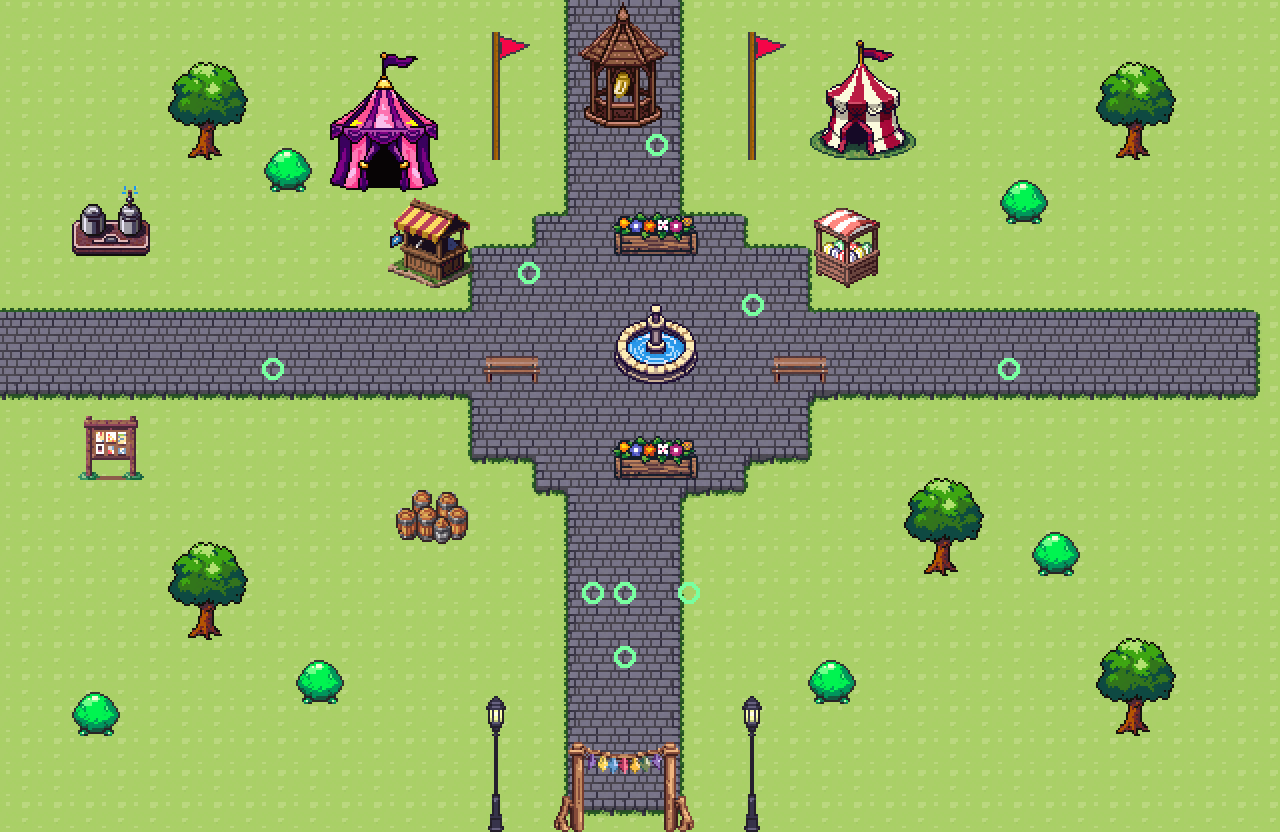
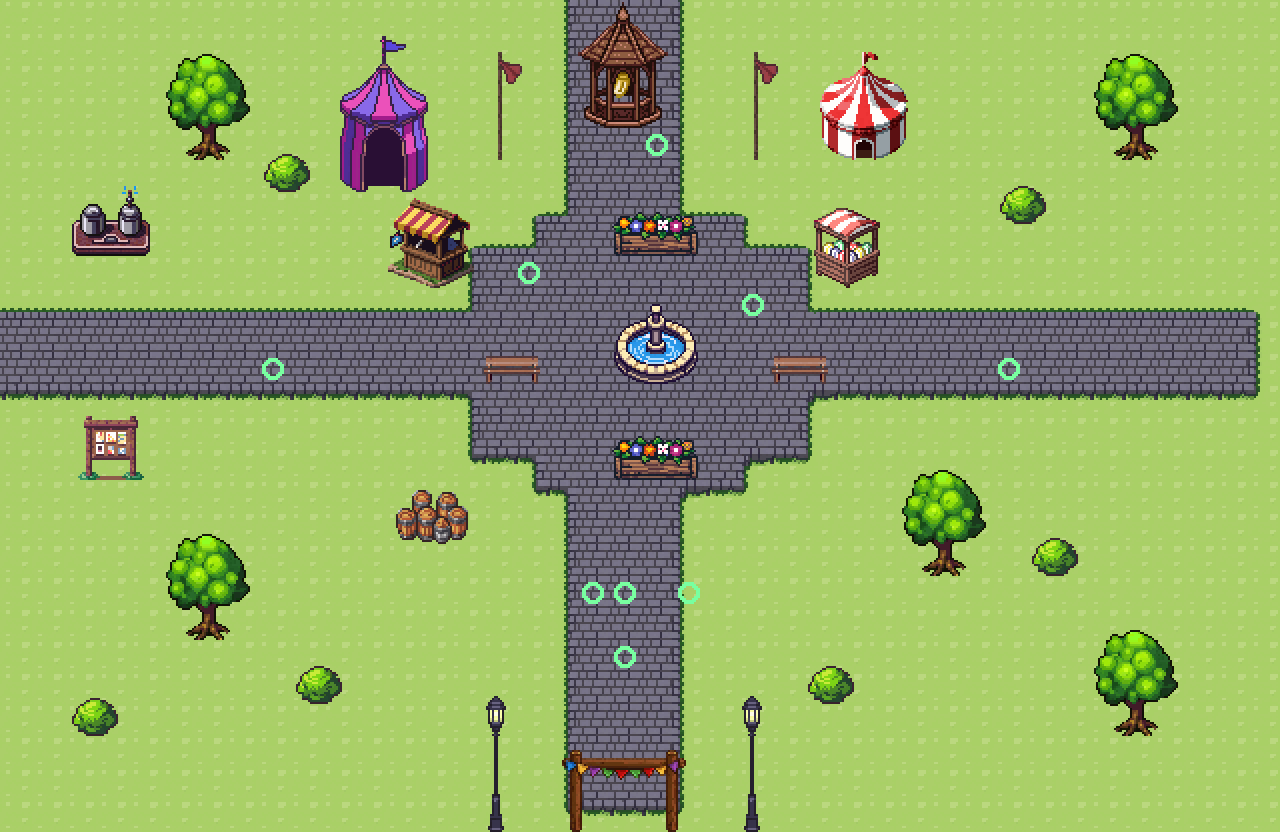
feat(space): breeze animations across the Millennial Fair
The channel plaza was static outside its centre (bell + fountain). Bring
the fairground to life under one coherent breeze: light fabric ripples
faster, heavy foliage sways slower.

Newly animated (regenerated as flat 16-bit PixelLab frames, frame 0
replacing the old static art):
- the two red pennant flags flanking the bell wave
- the entrance arch's colourful bunting garland flutters
- both carnival tent pennants (striped + Bekkler purple) flutter
- the trees' canopies and the bushes sway

Widened SHEET_COLS 20→30 so the arch's 5-tile × 6-frame strip fits (the
off-sheet guard enforces it); every animated frame cell verified
non-empty (no blink) and union-bbox keeps each base perfectly still.
Dropped the six now-unused static source PNGs. make ci 9/9.

diff --git a/virtual.space/tools/author_fair.py b/virtual.space/tools/author_fair.py
@@ -59,7 +59,9 @@ W, H = 40, 26
 # avenues; grass fills the quadrants.
 PLAZA = {"cx": 20.0, "cy": 11.0, "rx": 6.5, "ry": 5.0}   # central stone plaza
 PATHS = [(18, 0, 21, 25), (0, 10, 39, 12)]               # vertical + horizontal avenues
-SHEET_COLS = 20
+# Wide enough for the widest animated strip (arch = 5w × 6 frames = 30 tiles);
+# the guard in _compose_sheet raises if any strip would overrun this.
+SHEET_COLS = 30
 
 # Props are sized in TILES to sit proportional to a 1x2-tile avatar (Chrono
 # Trigger scale — a person is ~2 tiles tall). `source` is a PNG (static) or an
@@ -70,23 +72,26 @@ SHEET_COLS = 20
 # small props (lanterns, benches, carts, flowers…) stay person-scale.
 # All art is cohesive flat 16-bit (SNES) now; tile sizes match each sprite's
 # native pixel size so nothing is up/down-scaled (crisp pixels).
+# A single gentle breeze runs through the fair: light fabric (flags, pennants)
+# ripples faster, heavy foliage sways slower — same wind, physically coherent
+# periods. Every animated strip is w × 6 frames wide (see SHEET_COLS guard).
 PROPS = [
     ("fair_bell", "anim/bell", 3, 4, 950),
     ("fair_telepod", "anim/telepod", 3, 3, 480),
     ("fair_fountain", "anim/fountain", 3, 3, 1500),
     ("fair_lantern", "anim/lantern", 1, 5, 720),
-    ("fair_tent", "bekkler_tent.png", 4, 4, None),
+    ("fair_tent", "anim/tent", 4, 4, 850),
     ("fair_stall", "melchior_stall.png", 3, 3, None),
     ("fair_cart", "drink_cart.png", 3, 3, None),
-    ("fair_arch", "arch.png", 5, 3, None),
+    ("fair_arch", "anim/arch", 5, 3, 1000),
     ("fair_board", "board.png", 3, 2, None),
     ("fair_bench", "bench.png", 2, 1, None),
     ("fair_flowers", "flowers.png", 3, 2, None),
     ("fair_barrels", "barrels.png", 3, 2, None),
-    ("fair_banner", "banner.png", 2, 4, None),
-    ("fair_tent2", "bekkler_purple.png", 4, 5, None),
-    ("fair_tree", "tree.png", 3, 4, None),
-    ("fair_bush", "bush.png", 2, 2, None),
+    ("fair_banner", "anim/banner", 2, 4, 900),
+    ("fair_tent2", "anim/tent2", 4, 5, 850),
+    ("fair_tree", "anim/tree", 3, 4, 1600),
+    ("fair_bush", "anim/bush", 2, 2, 1500),
 ]
 
 _PROP_W = {p[0]: p[2] for p in PROPS}
